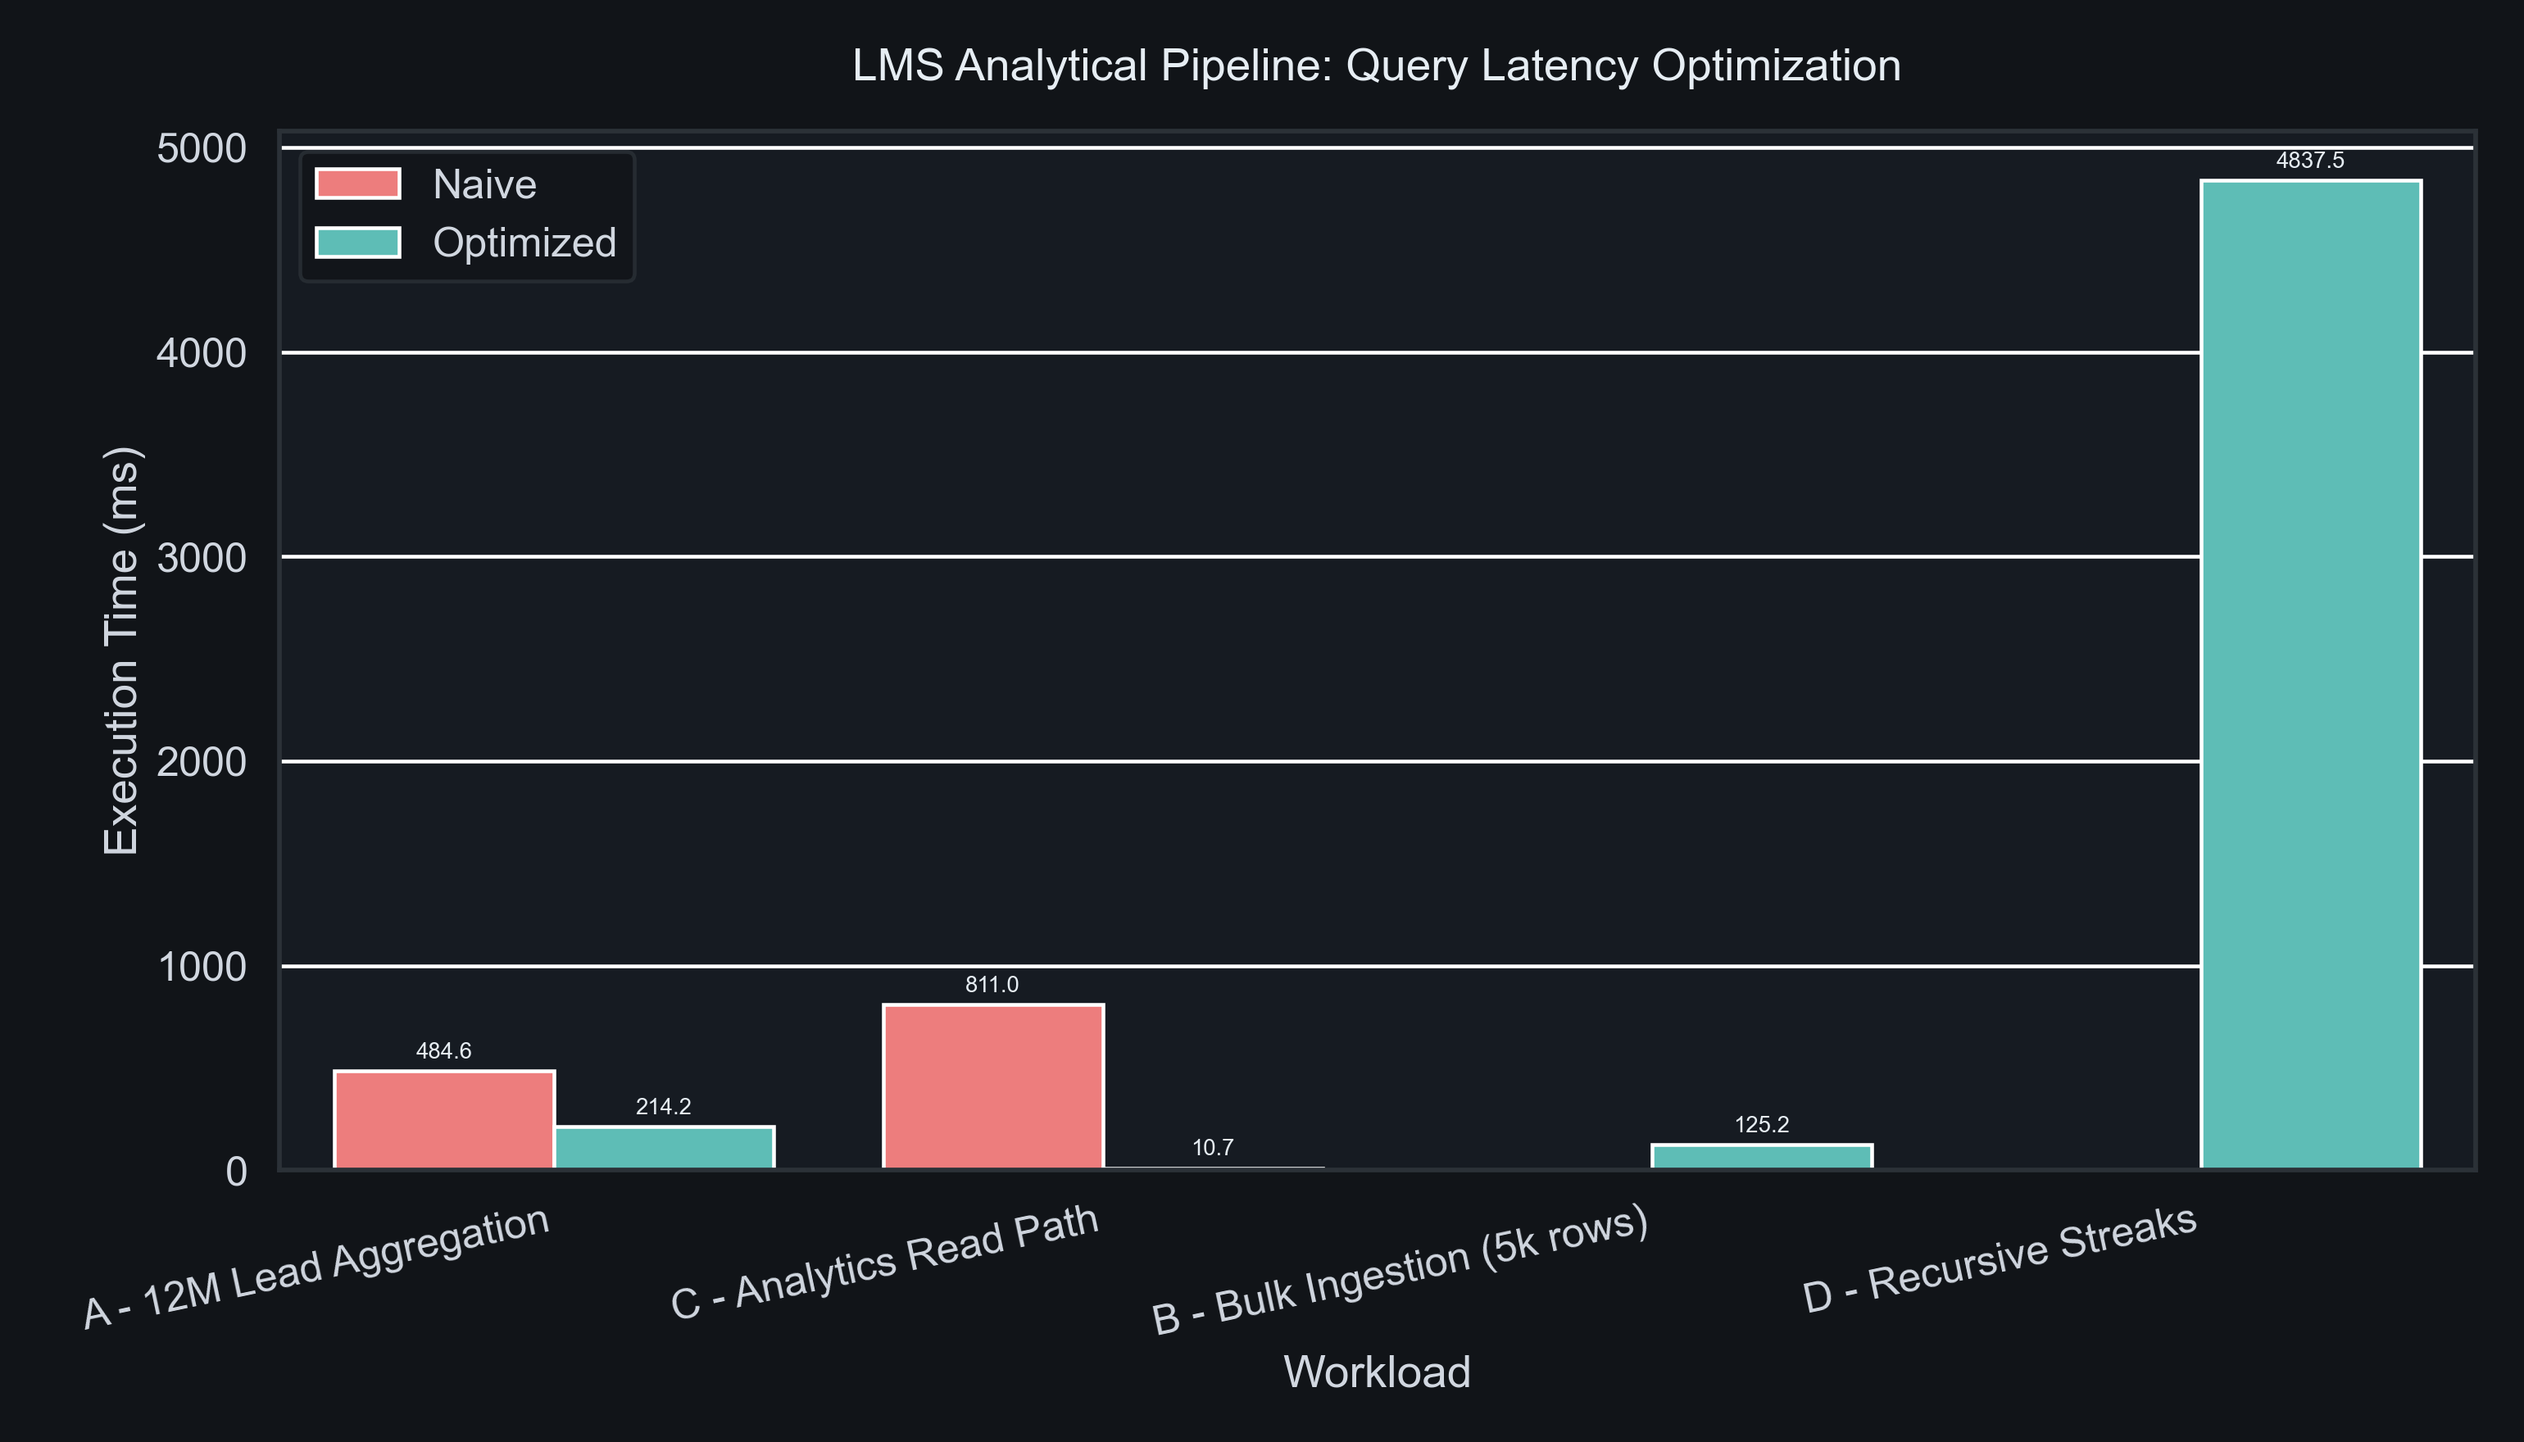
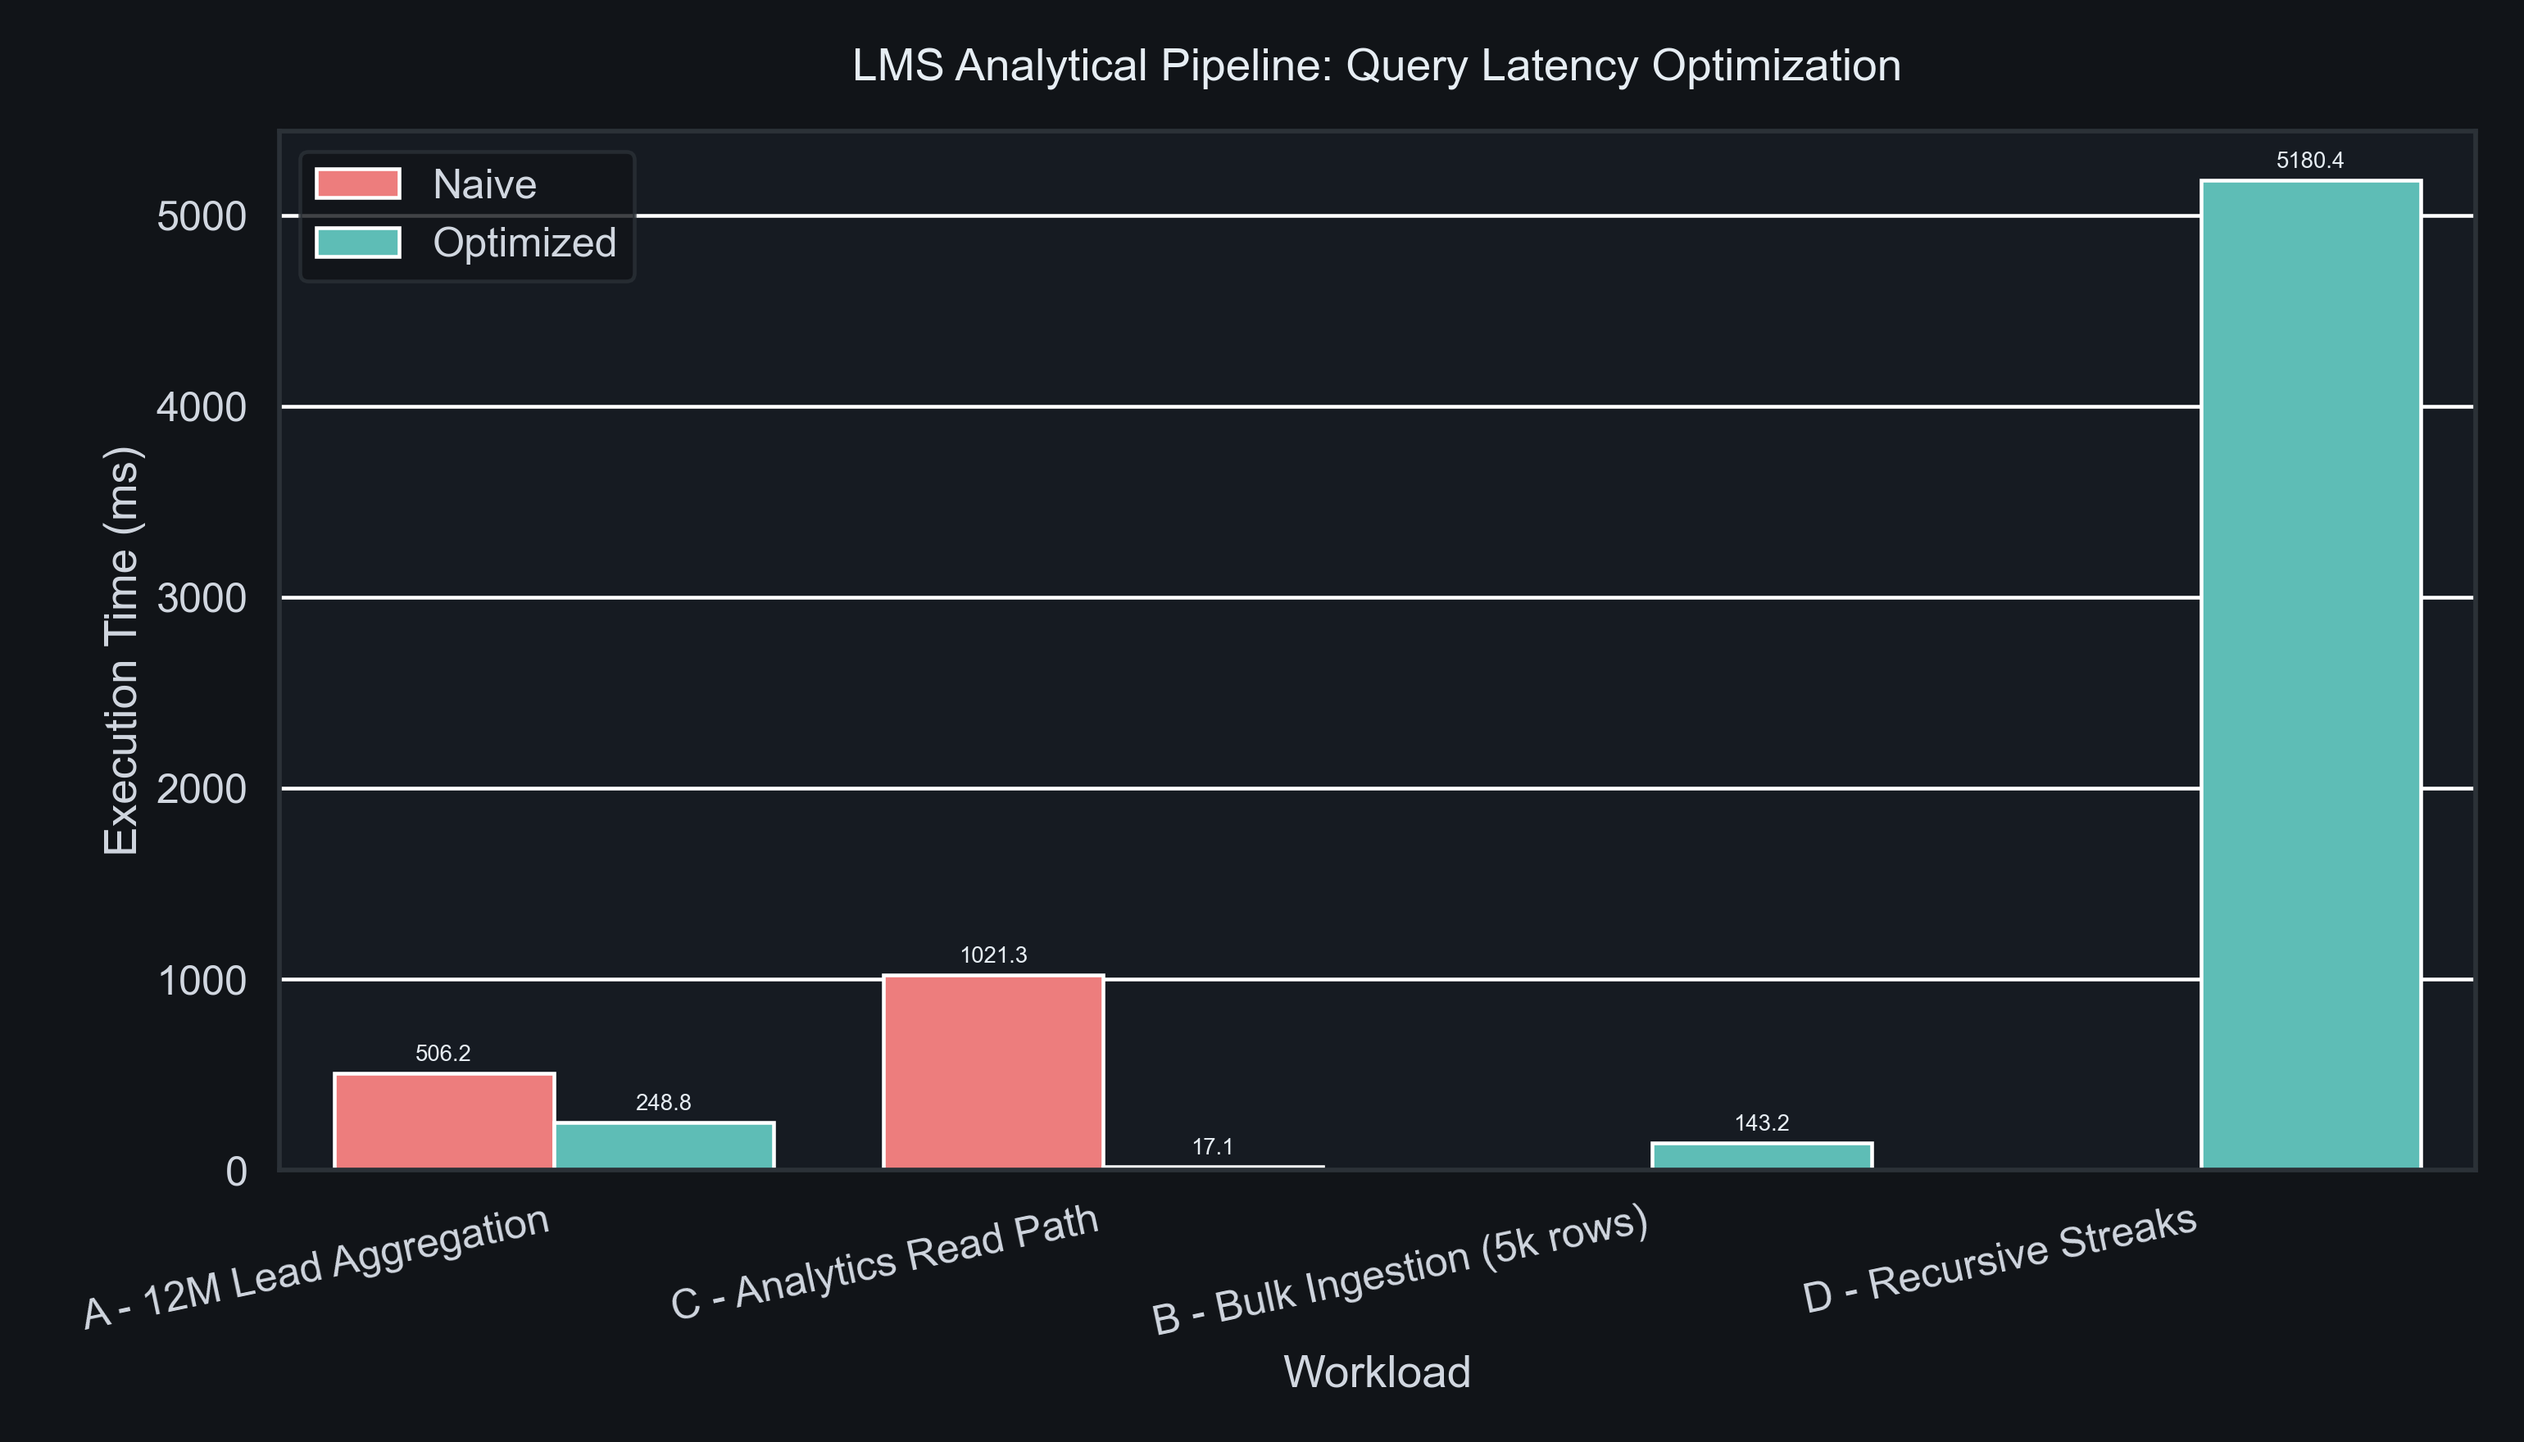
Finalize reproducibility, security hardening, and documentation alignment

diff --git a/scripts/verify_repro.py b/scripts/verify_repro.py
@@ -22,24 +22,32 @@ def run(cmd: list[str], check: bool = True) -> subprocess.CompletedProcess[str]:
 
 def wait_for_postgres(container_name: str, user: str, db: str, timeout_seconds: int) -> None:
     deadline = time.time() + timeout_seconds
+    consecutive_ok = 0
     while time.time() < deadline:
         probe = subprocess.run(
             [
                 "docker",
                 "exec",
                 container_name,
-                "pg_isready",
+                "psql",
                 "-U",
                 user,
                 "-d",
                 db,
+                "-c",
+                "SELECT 1;",
             ],
             text=True,
             stdout=subprocess.DEVNULL,
             stderr=subprocess.DEVNULL,
         )
         if probe.returncode == 0:
-            return
+            consecutive_ok += 1
+            if consecutive_ok >= 2:
+                return
+            time.sleep(1)
+            continue
+        consecutive_ok = 0
         time.sleep(1)
     raise RuntimeError("PostgreSQL container did not become ready before timeout.")
 

diff --git a/scripts/run_lms_benchmarks.py b/scripts/run_lms_benchmarks.py
@@ -11,6 +11,7 @@ from __future__ import annotations
 import argparse
 import datetime as dt
 import json
+import os
 import random
 import re
 import sys
@@ -24,7 +25,10 @@ import psycopg2
 import seaborn as sns
 from psycopg2.extensions import connection as PgConnection
 
-DEFAULT_DSN = "postgresql://postgres:postgres@localhost:5432/lms_db"
+DEFAULT_DSN = os.getenv(
+    "DATABASE_URL",
+    "postgresql://postgres:postgres@localhost:5432/lms_db",
+)
 
 EXPLAIN_EXECUTION_RE = re.compile(r"Execution Time:\s*([0-9]+(?:\.[0-9]+)?)\s*ms")
 

diff --git a/README.md b/README.md
@@ -6,6 +6,26 @@ A real-world case study on reducing I/O bottlenecks, lock contention, and memory
 
 ---
 
+## NDA & Privacy Disclaimer
+
+This repository is a public engineering case study built with synthetic datasets, anonymized identifiers, and representative metrics. It does not include proprietary schemas, customer data, internal source code, production credentials, or confidential business logic from any employer or client. All entities, payloads, and benchmark outputs are intentionally fabricated to preserve technical realism without exposing regulated or sensitive information.
+
+## The Background: Prototype to Production
+
+The LMS started as a straightforward web prototype: one backend process, one PostgreSQL instance, and a narrow user path. That architecture was acceptable while request volume was low and usage patterns were predictable.
+
+The failure mode appeared during production expansion. Once mobile clients were introduced, the backend was split into API services for iOS and Android traffic, and previously local computation became distributed computation. The system inherited more network hops, more serialization boundaries, and more duplicated read workloads. Query patterns that were tolerable in a monolith became expensive when repeated across multiple services and workers.
+
+## The Problem: Data Gravity
+
+The dominant bottleneck was not a single slow query; it was data movement. Services were extracting large row sets from PostgreSQL into Node.js/Python, then performing validation, aggregation, and ranking in application memory. That design drove heap growth, higher garbage collection pressure, and unnecessary network transfer of intermediate data.
+
+The thesis for this work is simple and enforced throughout the benchmarks: **"We fixed this by pushing heavy logic down to the PostgreSQL execution engine."**
+
+The outcome was lower memory pressure in API processes, reduced network payload size, and more stable tail latency under concurrent traffic.
+
+---
+
 ## Reproducible Verification Runbook
 
 **One-command reproducibility:**
@@ -36,6 +56,20 @@ bash scripts/verify_repro.sh
 ```bash
 python scripts/verify_repro.py --keep-container --port 5434
 ```
+
+## 🔬 Interactive Exploration (Jupyter Notebook)
+
+If you prefer to step through the SQL optimizations interactively, read the educational markdown, and see the charts render inline, use the included Jupyter Notebook.
+
+Ensure your PostgreSQL container is running: `docker-compose up -d`
+
+Activate your virtual environment and install dependencies: `pip install -r requirements.txt`
+
+Launch the Jupyter environment: `jupyter lab`
+
+Open `lms_optimization_walkthrough.ipynb` and execute the cells sequentially.
+
+Note: This notebook is fully compatible with Kaggle and Google Colab, provided you update the `DATABASE_URL` environment variable to point to an accessible PostgreSQL 15+ instance.
 
 ---
 
@@ -85,6 +119,30 @@ erDiagram
         timestamptz captured_at
         timestamptz converted_at
     }
+```
+
+## 📁 Repository Structure
+
+```text
+lms-postgres-scaling-patterns/
+├── README.md                           # This case study and benchmark report
+├── docker-compose.yml                  # PostgreSQL 15 isolated environment
+├── requirements.txt                    # Python dependencies
+├── .env.example                        # Template for database credentials
+├── lms_optimization_walkthrough.ipynb  # Interactive Jupyter/Kaggle notebook
+├── docs/
+│   ├── latency_comparison.png          # Auto-generated performance chart
+│   └── live_benchmark_results.md       # Auto-generated latency tables
+├── scripts/
+│   ├── verify_repro.py                 # Cross-platform automated Docker test suite
+│   ├── verify_repro.sh                 # Linux/macOS wrapper
+│   ├── verify_repro.ps1                # Windows PowerShell wrapper
+│   └── run_lms_benchmarks.py           # Core benchmark execution and charting logic
+└── src/
+    ├── 00_schema_and_synthetic_data.sql # DDL and deterministic data generator
+    ├── 01_cursor_aggregation.sql        # Optimization 1: PL/pgSQL Cursors
+    ├── 02_bulk_ingestion_triggers.sql   # Optimization 2: Transition Tables
+    └── 03_analytics_views_and_recursion.sql # Optimization 3 & 4: Views & CTEs
 ```
 
 ---
@@ -714,5 +772,50 @@ Migration results over three months:
 - [PostgreSQL 15 Documentation: Materialized Views](https://www.postgresql.org/docs/15/sql-creatematerializedview.html)
 - [PostgreSQL 15 Documentation: WITH (Common Table Expressions)](https://www.postgresql.org/docs/15/queries-with.html)
 - [PostgreSQL 15 Documentation: EXPLAIN](https://www.postgresql.org/docs/15/sql-explain.html)
+
+---
+
+## Reproducibility & Usability
+
+Use Docker and the included verifier script from the repository root:
+
+```bash
+python scripts/verify_repro.py
+```
+
+What this command does:
+- starts an isolated PostgreSQL 15 container,
+- initializes schema and synthetic data,
+- runs benchmark workloads with strict Benchmark A semantics,
+- writes artifacts to `docs/live_benchmark_results.md` and `docs/latency_comparison.png`.
+
+Optional wrappers:
+- Linux/macOS: `bash scripts/verify_repro.sh`
+- Windows PowerShell: `./scripts/verify_repro.ps1`
+
+Prerequisites:
+- Docker installed and running,
+- Python 3.9+,
+- project dependencies installed from `requirements.txt`.
+
+## Future Improvements
+
+Planned extensions for the next iteration:
+- Part 2: Declarative table partitioning for billion-row activity logs.
+- JSONB indexing strategy for high-volume telemetry attributes.
+- Comparative benchmark matrix for BRIN vs BTREE under append-heavy workloads.
+- Repeatable CI execution profile for cross-platform benchmark verification.
+
+## Contributing
+
+Contributions are welcome. If you want to extend this case study:
+- fork the repository,
+- add a new benchmark scenario (SQL + runner integration + expected outputs),
+- include reproducibility notes and performance interpretation,
+- open a Pull Request with a clear before/after methodology.
+
+Please keep contributions deterministic, benchmarkable, and grounded in PostgreSQL execution evidence (`EXPLAIN ANALYZE`, buffers, and latency artifacts).
+
+This project is released under the MIT License. See `LICENSE` for details.
 
 

diff --git a/docs/live_benchmark_results.md b/docs/live_benchmark_results.md
@@ -4,12 +4,12 @@
 
 | Benchmark | Naive (ms) | Optimized (ms) | Improvement |
 |---|---:|---:|---:|
-| Benchmark A - 12M Lead Aggregation | 484.608 | 214.233 | 55.79% |
-| Benchmark B - Bulk Ingestion (5k rows) | N/A | 125.151 | N/A |
-| Benchmark C - Analytics Read Path | 810.950 | 10.707 | 98.68% |
-| Benchmark C - MV Concurrent Refresh | N/A | 1.931 | N/A |
-| Benchmark D - Recursive Streaks | N/A | 4837.524 | N/A |
+| Benchmark A - 12M Lead Aggregation | 506.246 | 248.765 | 50.86% |
+| Benchmark B - Bulk Ingestion (5k rows) | N/A | 143.157 | N/A |
+| Benchmark C - Analytics Read Path | 1021.292 | 17.127 | 98.32% |
+| Benchmark C - MV Concurrent Refresh | N/A | 1.127 | N/A |
+| Benchmark D - Recursive Streaks | N/A | 5180.367 | N/A |
 
-Moving from repeated monthly query dispatch in the N+1 aggregation loop to a single cursor-backed grouped execution shifted planning from repeated index-access cycles toward one consolidated aggregate path, reducing transfer and compute latency by 55.79%.
+Moving from repeated monthly query dispatch in the N+1 aggregation loop to a single cursor-backed grouped execution shifted planning from repeated index-access cycles toward one consolidated aggregate path, reducing transfer and compute latency by 50.86%.
 
-For analytics, replacing repeated live window aggregation over daily_activity_logs with reads from a precomputed materialized surface eliminated heavy per-request aggregation work and reduced read latency by 98.68% while preserving concurrent refresh semantics.
+For analytics, replacing repeated live window aggregation over daily_activity_logs with reads from a precomputed materialized surface eliminated heavy per-request aggregation work and reduced read latency by 98.32% while preserving concurrent refresh semantics.
